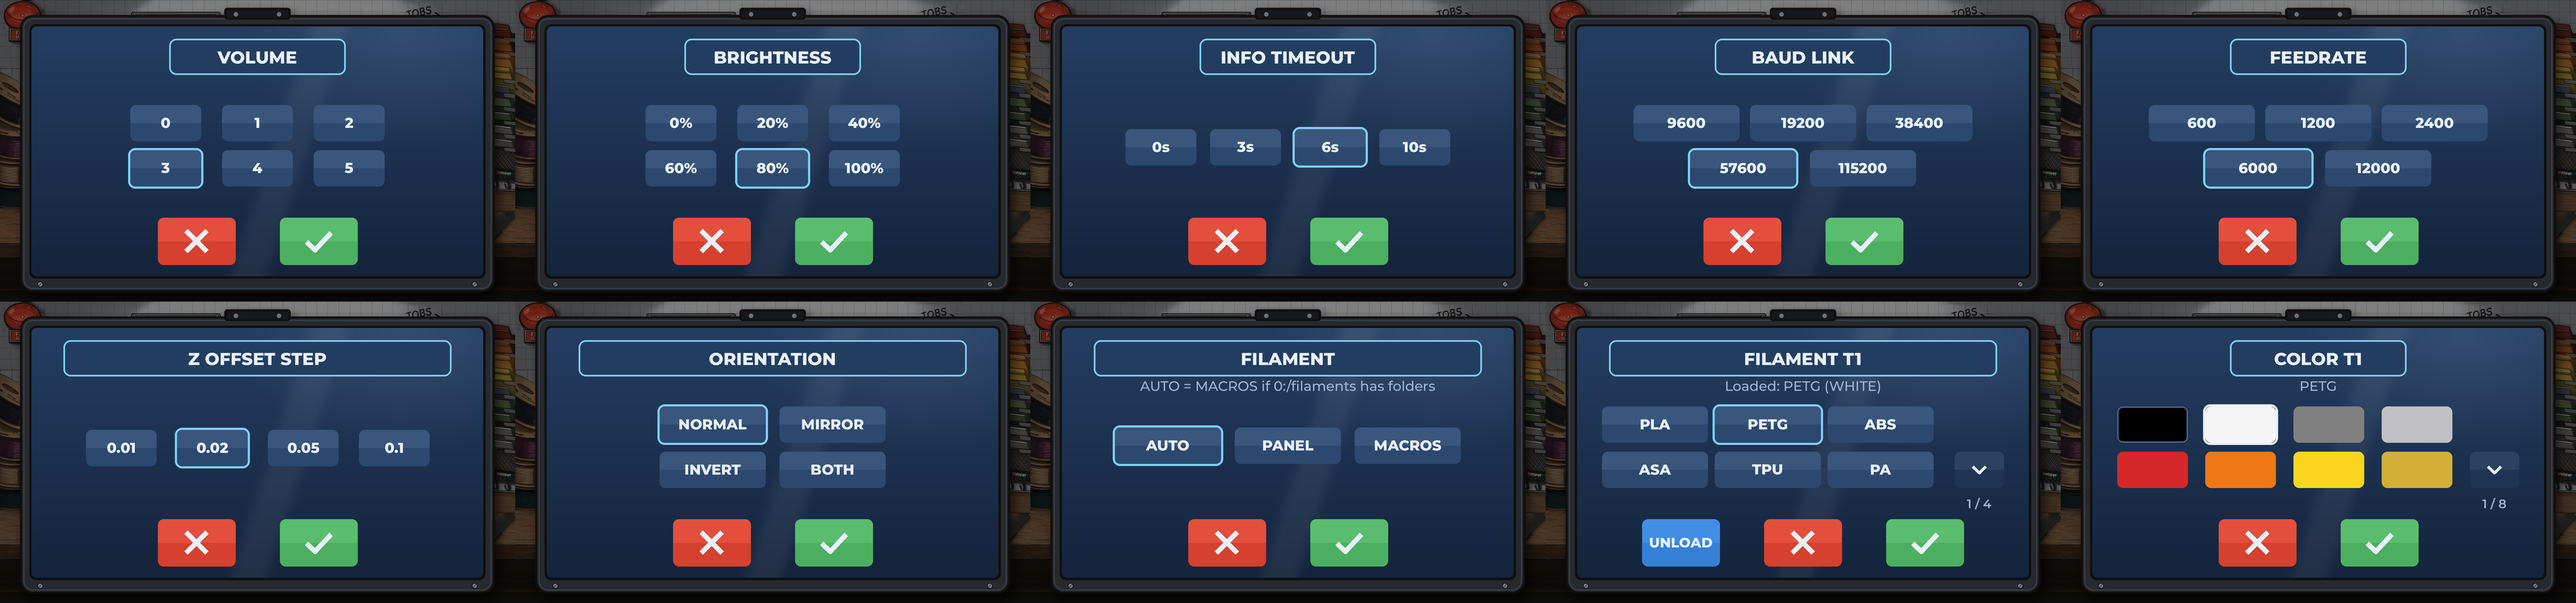
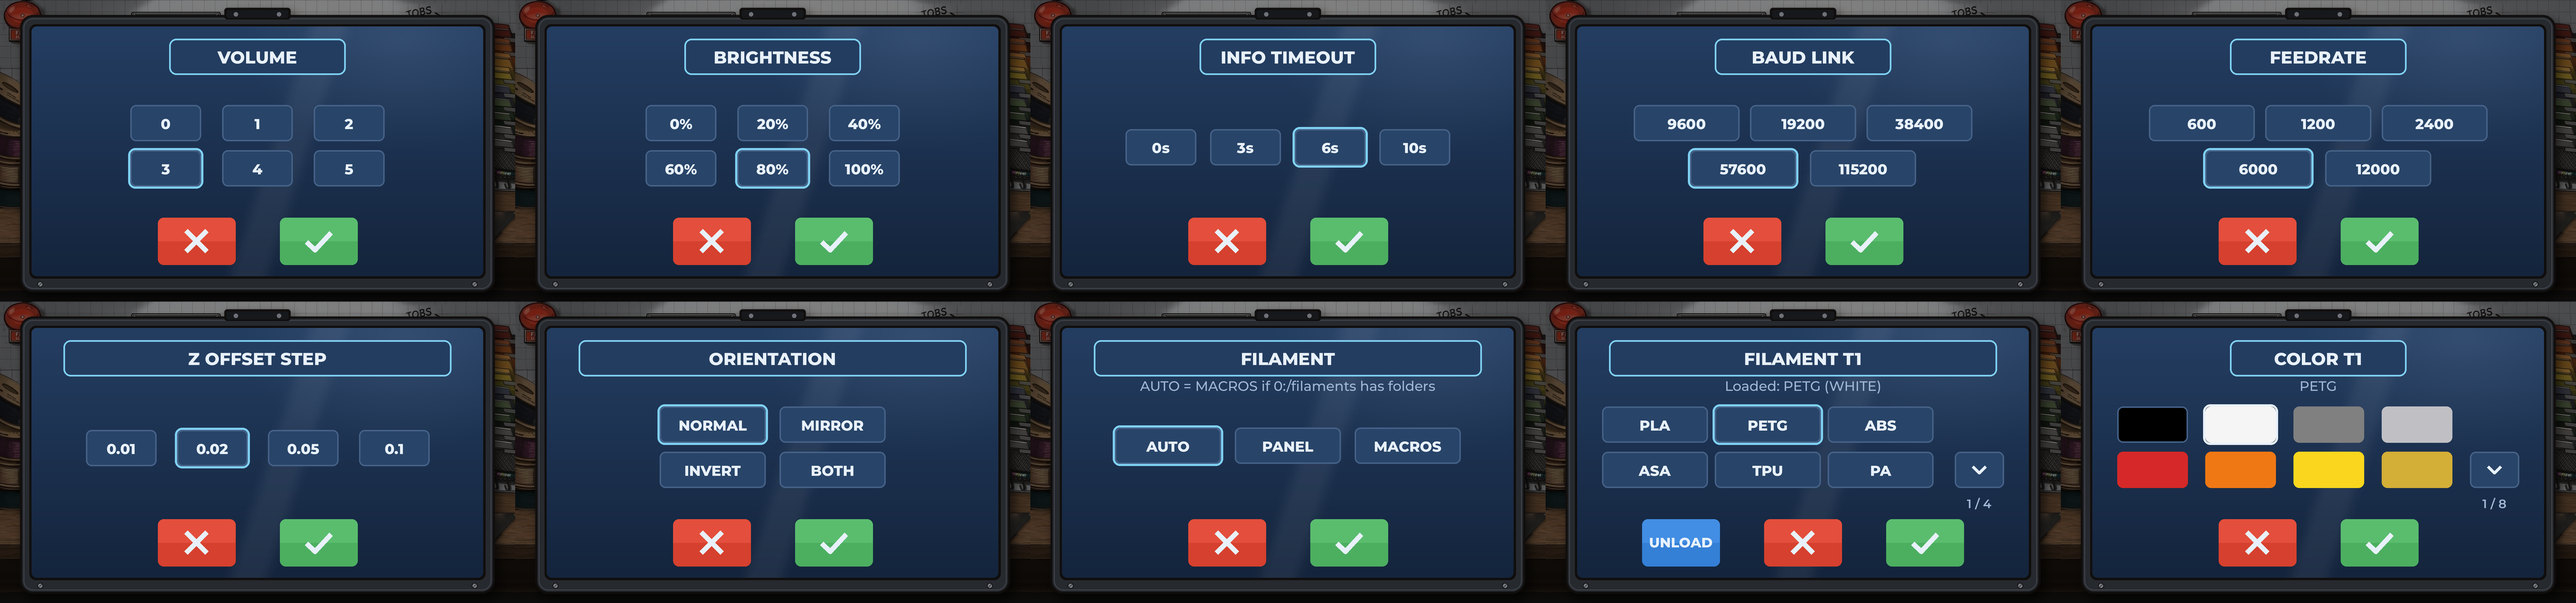
docs(UI): lock Modern UI popup design with subtle inner tiles
Claude-Session: https://claude.ai/code/session_01LqzgbadjNG3QvZfBBNSivr

diff --git a/docs/workshop/POPUPS.md b/docs/workshop/POPUPS.md
@@ -76,7 +76,12 @@ blends in. Text below it is centred.
 
 Taken from `PanelDueFirmware-MODERN_UI` (`CreateModernStandardPopup`, 660 × 460): same
 name tile (short/long), info card, choice buttons, positions and preset values,
-mapped onto our frame.
+mapped onto our frame. **Locked.**
+
+Inner tiles (info card, choice and adjust buttons, page arrows) are only slightly
+visible: a fill just lighter than the glass and a faint blue-grey outline. The
+selected choice gets the bright blue outline. Coloured fills are reserved for the
+action buttons (trash/UNLOAD, X, check).
 
 ![Regular](popups/modern_regular.png)
 
